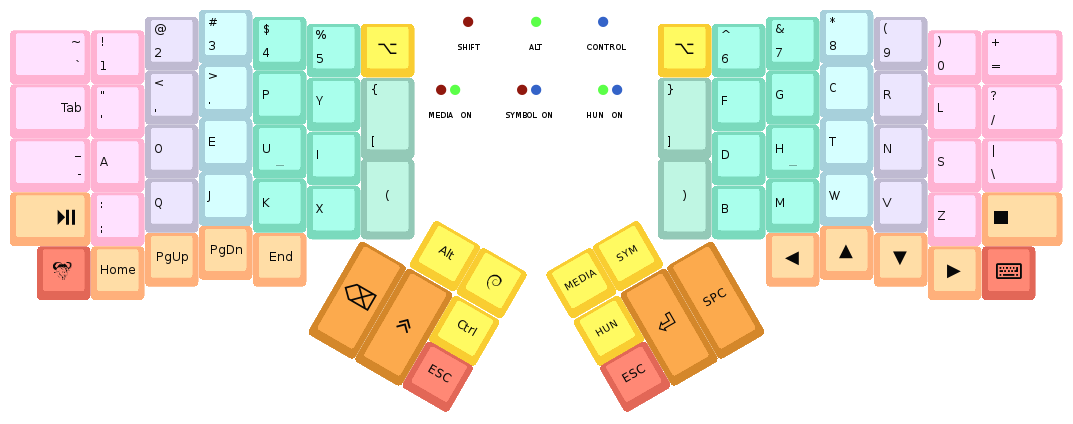
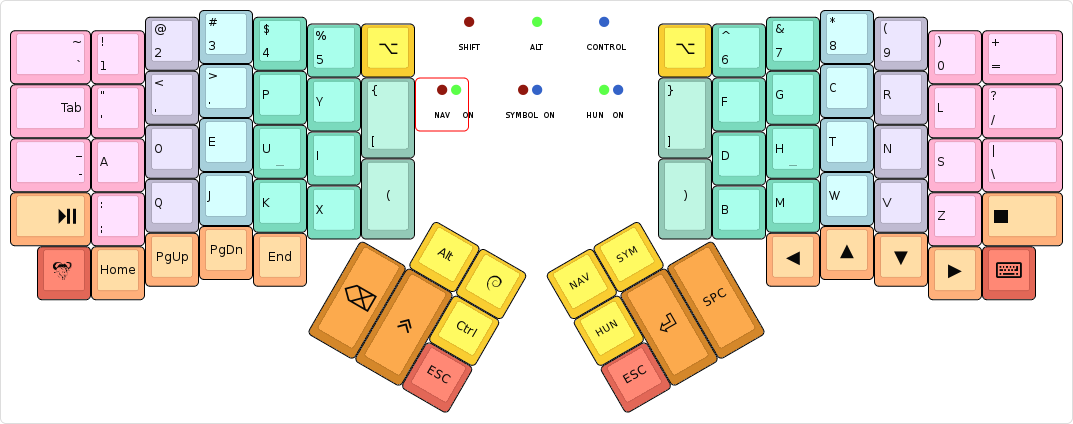
ergodox_ez/algernon: Documentation update

diff --git a/README.md b/README.md
@@ -11,7 +11,7 @@ But lets get on with the base layer, before I dive into a deeper explanation!
 
 ## Base layer
 
-![Base layer](images/base-layer.png)
+[![Base layer](images/base-layer.png)](http://www.keyboard-layout-editor.com/#/gists/28f7eb305fdbff943613e1dc7aa9e82b)
 
 As you can see, this appears to be a somewhat unremarkable Dvorak layout, with
 some very minor changes:
@@ -54,7 +54,7 @@ other guide, for most special keys.
 
 ## Symbols layer
 
-![Symbols layer](images/symbol-layer.png)
+[![Symbols layer](images/symbol-layer.png)](http://www.keyboard-layout-editor.com/#/gists/dad30ce9d478a336d3513b560b790930)
 
 The symbol layer is a bit more conventional, and retains most of the special
 keys in the same position as in the base layer. As an addition, function keys
@@ -63,9 +63,9 @@ shruggie sequence, for various reasons.
 
 The key colors were done the same way as in the base layer.
 
-## Media layer
+## Navigation layer
 
-![Media layer](images/media-layer.png)
+[![Navigation layer](images/nav-layer.png)](http://www.keyboard-layout-editor.com/#/gists/e4556d8dc59736c26d51a58cb4c4d2f0)
 
 For all mouse-y, navigational and media needs!
 
@@ -73,11 +73,19 @@ The coloring here also follows a different pattern: blue are mouse keys, red is
 cursor navigation, light orange is media control, pink are copy/paste related
 functions, and the rest are as usual.
 
-The copy/paste stuff needs some explanation: they only work in Spacemacs. The
-topmost pink button toggles visual mode on and off, by sending `V` first, and
-`ESC` the second time. The button below it sends `X` for cutting when tapped,
-`D` for deleting when held. The pink button on the thumb cluster sends `Y` for
-copy when tapped, `P` for paste when held.
+The copy/paste stuff needs some explanation: there are three modes of operation:
+`Emacs`, `Terminal`, and `Other`. The keys work the following way:
+
+* The topmost pink button turns on `visual-mode` in the `Emacs` mode, by sending
+  a `v`. In all other modes, it does nothing.
+* The second one is the *paste* and *delete* button in one. Tapped, it pastes,
+  held longer, it deletes. In `Emacs` mode, this sends `p` or `d`, respectively.
+  In `Terminal` mode, it sends `C-S-v` or `DEL`. In `Other` mode, `C-v` or
+  `DEL`.
+* The third one, on the thumb cluster is the *copy* and *cut* key. Tapped, it
+  copies, held longer, it cuts. In `Emacs` mode, this sends `y` or `x`,
+  respectively. In `Terminal` mode, it sends `C-S-c` or `C-S-x`. In `Other`
+  mode, `C-c` or `C-x`.
 
 ## LED behaviour
 
